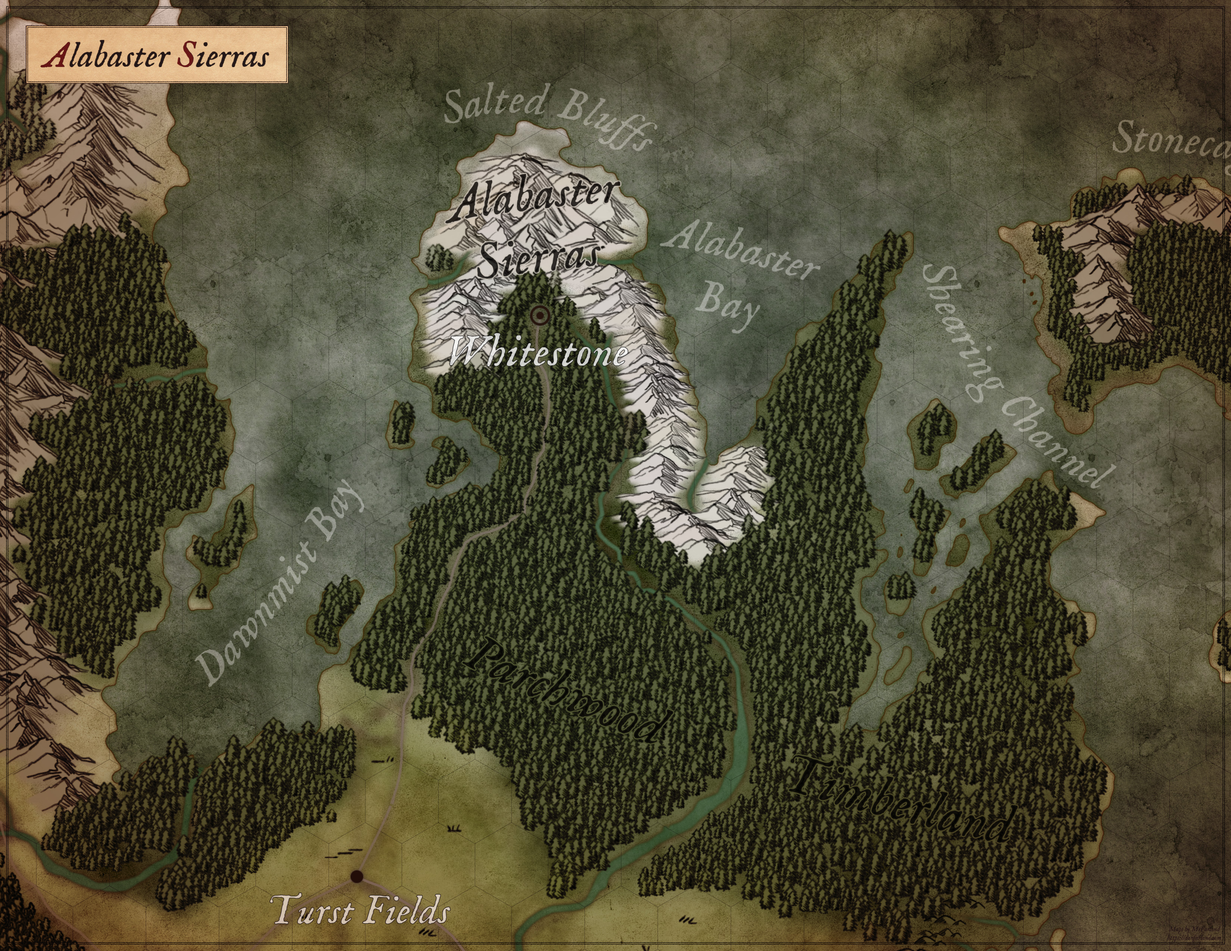
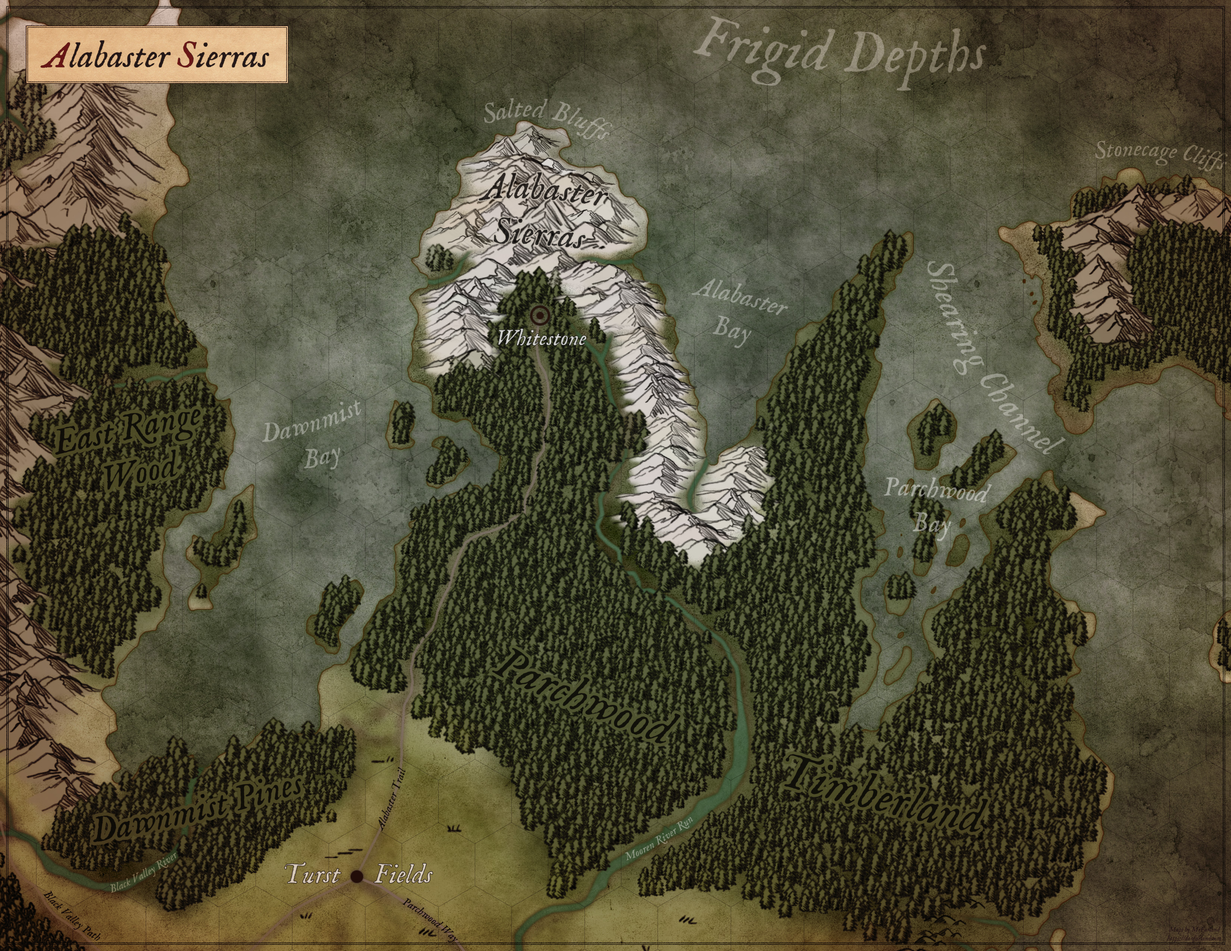
Major map update

diff --git a/documentation/Atlas Exandria Cartographer's Guide.md b/documentation/Atlas Exandria Cartographer's Guide.md
@@ -111,7 +111,7 @@ The color palette for the Custom Colors symbols are:
 
 
 ### Labels
-The following are the starting points for all of the labels used on the world map. These colors and sizes are only a starting point. Labels are made bigger or smaller depending on the size and scale of the area to be labeled. I tend to stick to multiples of 8 (habit mostly) and rarely increase or decrease by more than 8-16 points. I also adjust colors slightly depending on the area surrounding the subject area. Typically to improve readability while maintaining the same look and feel.
+The following are the starting points for all of the labels used on the continent maps. These colors and sizes are only a starting point. Labels are made bigger or smaller depending on the size and scale of the area to be labeled. I tend to stick to multiples of 8 (habit mostly) and rarely increase or decrease by more than 8-16 points. I also adjust colors slightly depending on the area surrounding the subject area. Typically to improve readability while maintaining the same look and feel.
 
 *All labels use the **IM Fell English Italic** font.*
 
@@ -121,9 +121,9 @@ The following are the starting points for all of the labels used on the world ma
 | Bay, Channel, Etc  | #32ffffff |   -   |   -         |  24 |
 | Continent          | #9c000000 |   -   |   -         | 128 |
 | Desert             | #7d000000 |   3   |   #7dab9262 |  24 |
-| Forest (Broadleaf) | #c8000000 |   3   |   #c8ccbe99 |  18 |
-| Forest (Dark/Dead) | #c8000000 |   3   |   #c85f5543 |  18 |
-| Forest (Evergreen) | #c8000000 |   3   |   #c8505633 |  18 |
+| Forest (Broadleaf) | #c8000000 |   3   |   #c8ccbe99 |  24 |
+| Forest (Dark/Dead) | #c8000000 |   3   |   #c85f5543 |  24 |
+| Forest (Evergreen) | #c8000000 |   3   |   #c8505633 |  24 |
 | Island             | #9c000000 |   -   |   -         |  18 |
 | Island Chain       | #9c000000 |   -   |   -         |  36 |
 | Lake / Pond        | #32ffffff |   -   |   -         |  16 |
@@ -132,7 +132,7 @@ The following are the starting points for all of the labels used on the world ma
 | Ocean, Sea         | #32ffffff |   -   |   -         | 128 |
 | Plain              | #c84c4a21 |   3   |   #c8989367 |  18 |
 | Plain (Snow)       | #c8000000 |   3   |   #c8e0dad6 |  18 |
-| Point of Interest  | #000000   |   -   |   -         |  16 |
+| Point of Interest  | #000000   |   -   |   -         |  18 |
 | River, Creek, Etc  | #96ffffff |   -   |   -         |  -  |
 | Roads              | #000000   |   -   |   -         |  -  |
 | Swamp              | #c8483010 |   3   |   #c87a6e46 |  16 |
